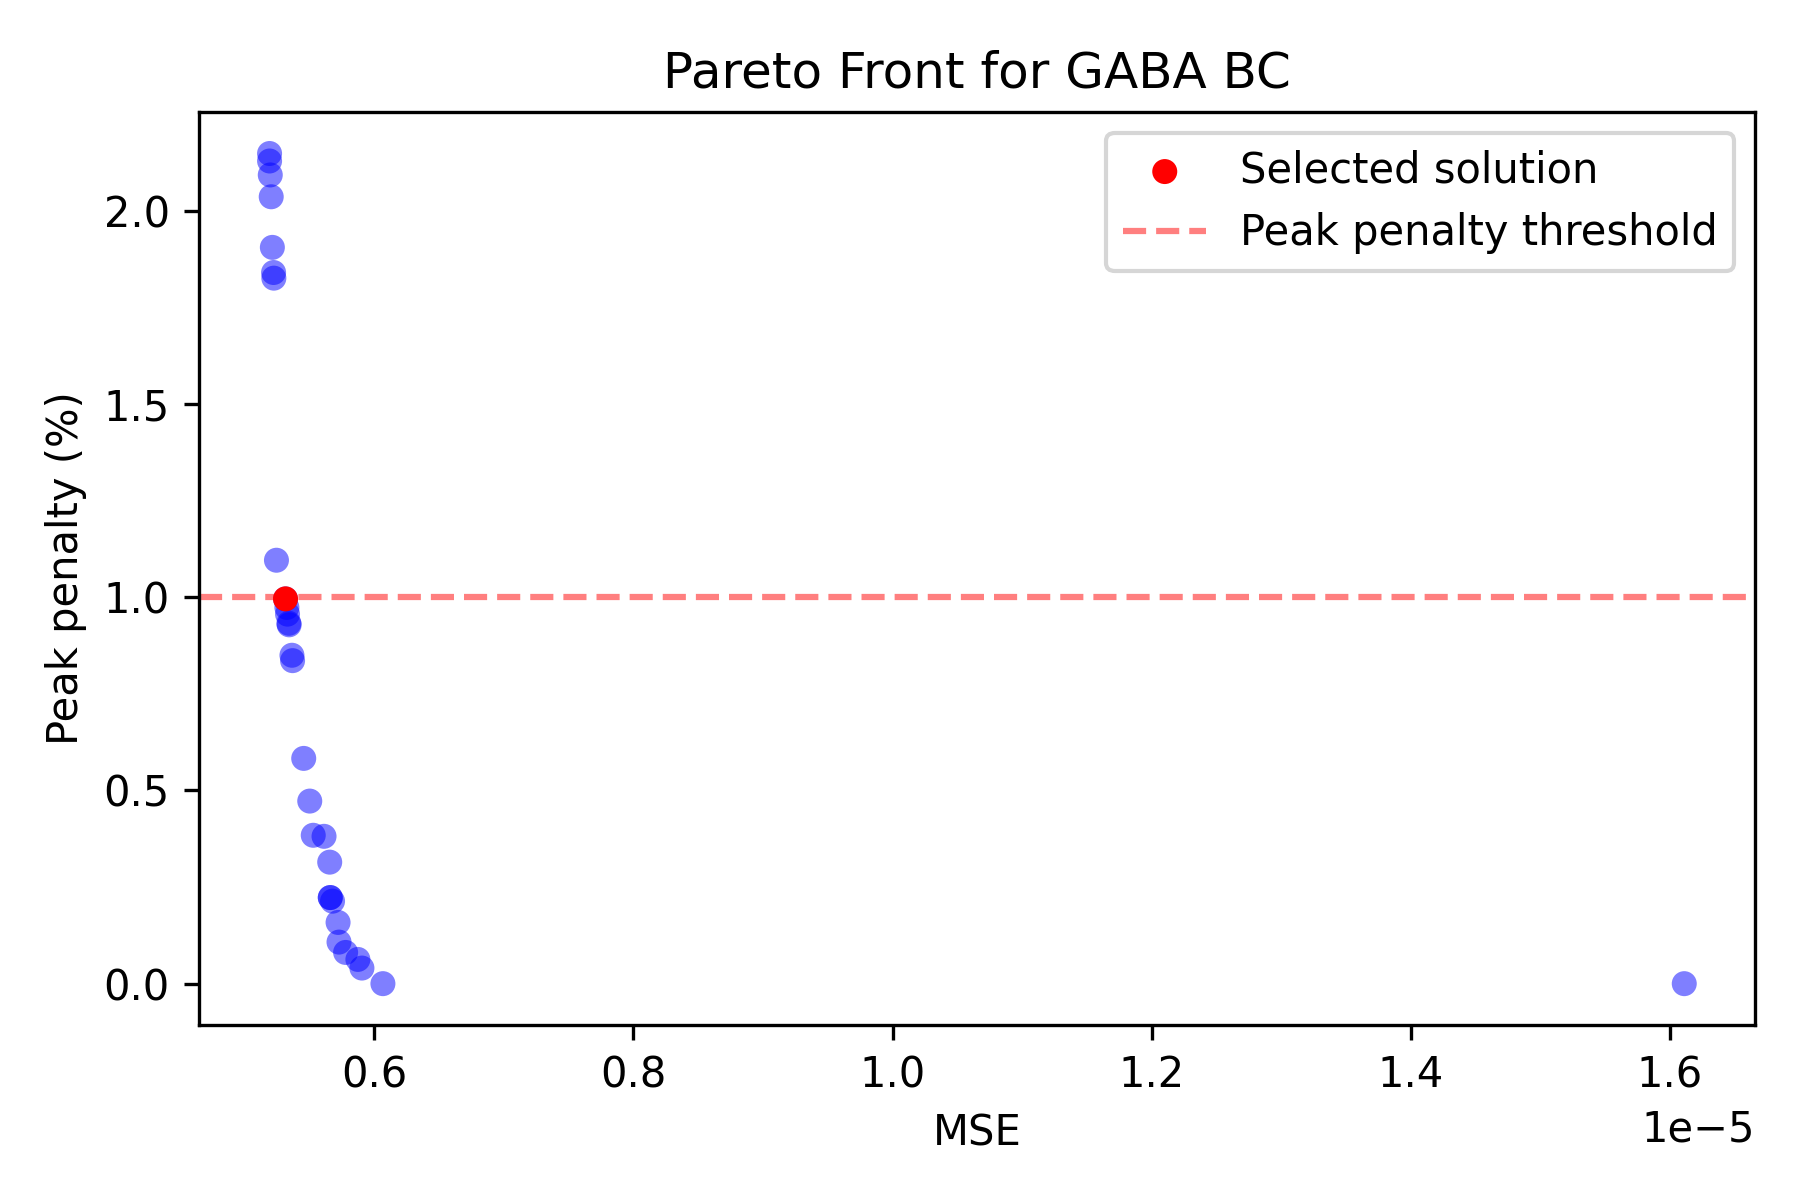
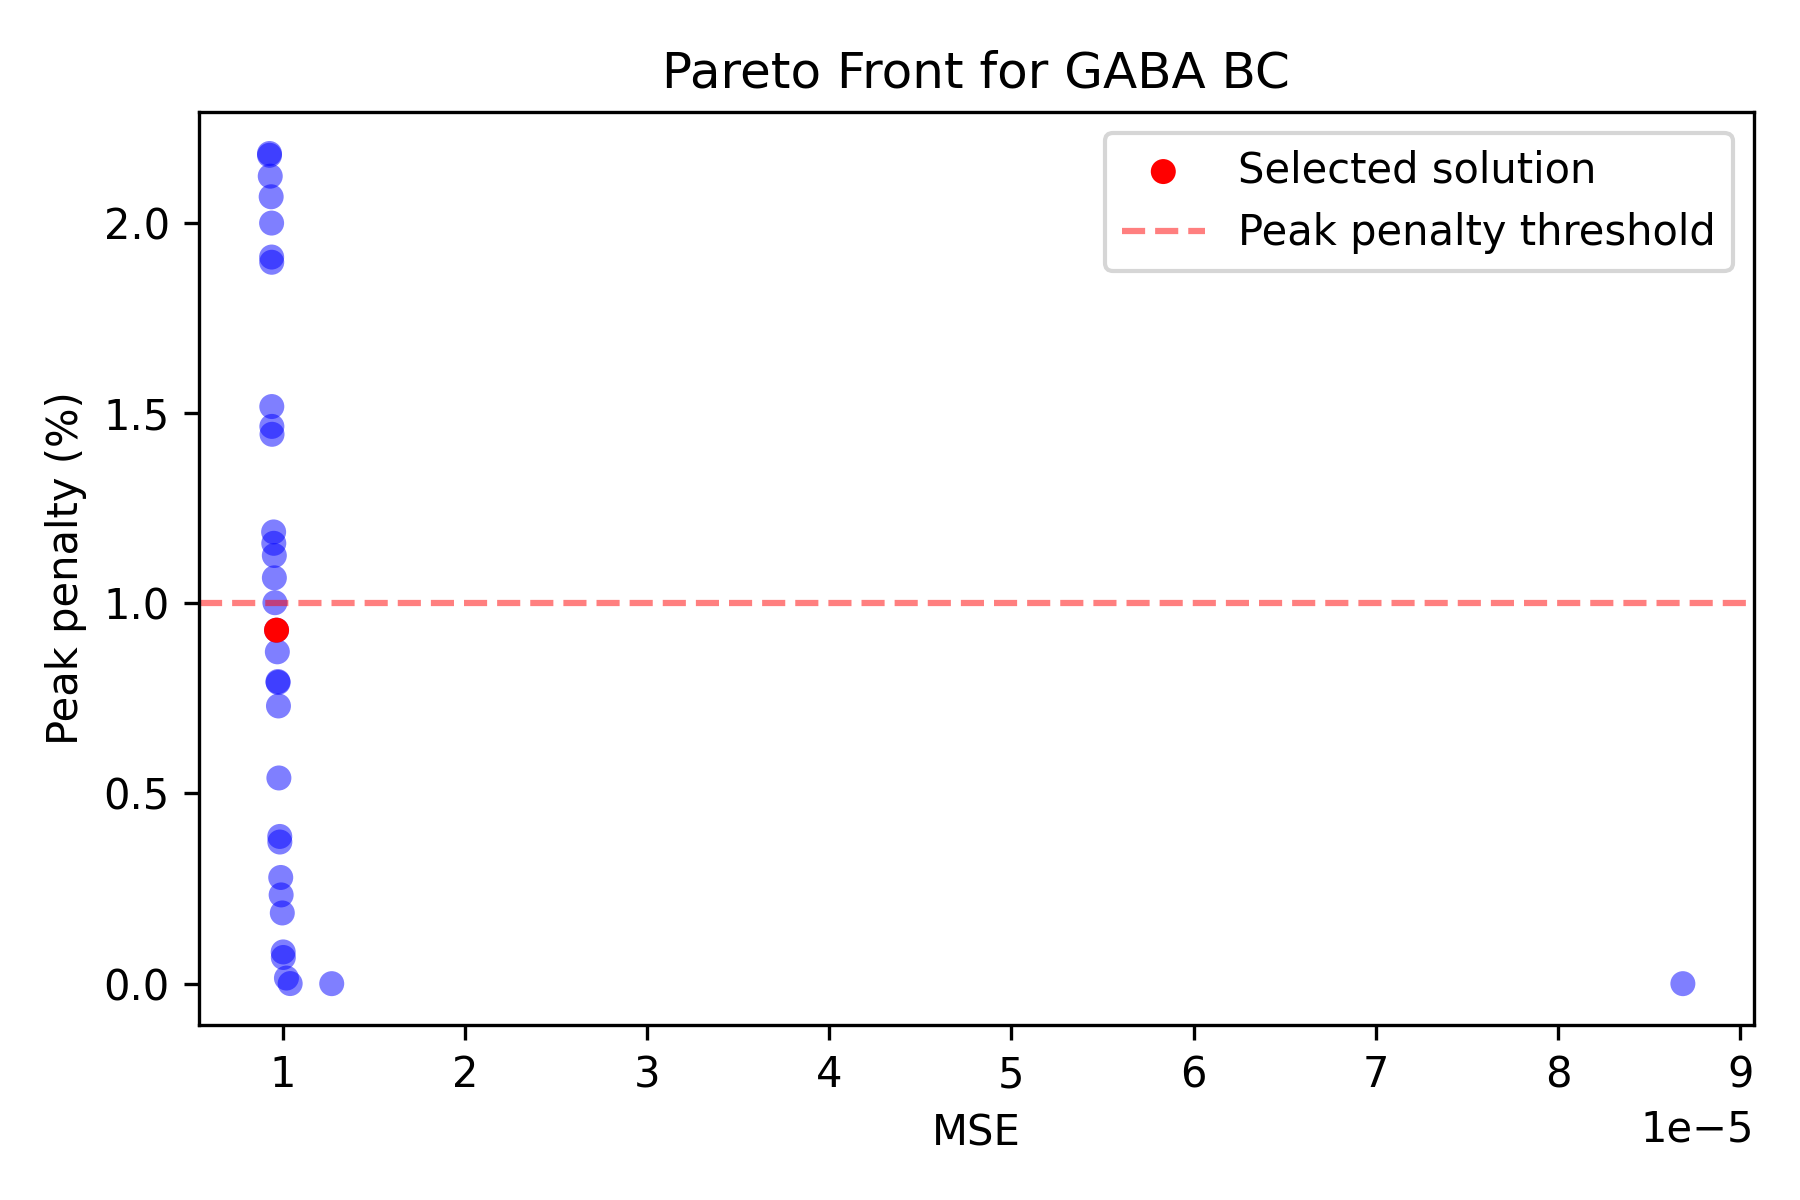
Fix: GABA_E_rev

diff --git a/AMPA_NMDA_GABA_tuning/single_cell_test/neuron_traces.py b/AMPA_NMDA_GABA_tuning/single_cell_test/neuron_traces.py
@@ -2,20 +2,16 @@ import os
 
 import matplotlib.pyplot as plt
 import pandas as pd
+from multi_obj_opt import extract_trace
 
 
-def show_traces(file_path, synapse, conn, save_path):
+def show_traces(file_path, synapse, conn, E_rev, save_path):
     df = pd.read_csv(file_path, delim_whitespace=True)
     df.columns = ["Time", "Current"]
-    if synapse == "AMPA":
-        df["g"] = df["Current"].values * 1000 / (-40.0)
-    elif synapse == "GABA":
-        df["g"] = -df["Current"].values * 1000 / (-40.0)
+    if synapse is 'NMDA':
+        _, df['g'] = extract_trace(file_path,E_rev, mg_block=0.177)
     else:
-        df["g"] = (
-            df["Current"].values * 1000 / ((-40.0 + 3.7) * 0.177)
-        )  # 0.177 is the mg_block value associated to -40 mV,
-        # -3.7 is the reversal potential for NMDA
+        _, df['g'] = extract_trace(file_path,E_rev)
 
     plt.figure()
     plt.title(f"{synapse} current - {conn} (NEURON sim)")
@@ -43,76 +39,105 @@ if __name__ == "__main__":
     save_path = "figs/Neuron_Danilo/"
     conn = "pf_SC"
     synapse = "AMPA"
-    show_traces(file_path, synapse, conn, save_path)
+    E_rev = 0.
+    show_traces(file_path, synapse, conn,E_rev, save_path)
 
     file_path = "../NEURON_traces/Danilo_synapses/SCGABA.txt"
     save_path = "figs/Neuron_Danilo/"
     conn = "SC"
     synapse = "GABA"
-    show_traces(file_path, synapse, conn, save_path)
+    E_rev = -65.
+    show_traces(file_path, synapse, conn,E_rev, save_path)
 
     file_path = "../NEURON_traces/Danilo_synapses/GoCpfAMPA.txt"
     save_path = "figs/Neuron_Danilo/"
     conn = "pf_GoC"
     synapse = "AMPA"
-    show_traces(file_path, synapse, conn, save_path)
+    E_rev = 0.
+    show_traces(file_path, synapse, conn,E_rev, save_path)
 
     file_path = "../NEURON_traces/Danilo_synapses/GoCmfAMPA.txt"
     save_path = "figs/Neuron_Danilo/"
     conn = "mf_GoC"
     synapse = "AMPA"
-    show_traces(file_path, synapse, conn, save_path)
+    E_rev = 0.
+    show_traces(file_path, synapse, conn,E_rev, save_path)
 
     file_path = "../NEURON_traces/Danilo_synapses/GoCGABA.txt"
     save_path = "figs/Neuron_Danilo/"
     conn = "GoC"
     synapse = "GABA"
-    show_traces(file_path, synapse, conn, save_path)
+    E_rev = -65.
+    show_traces(file_path, synapse, conn,E_rev, save_path)
 
     file_path = "../NEURON_traces/Danilo_synapses/GoCaaAMPA.txt"
     save_path = "figs/Neuron_Danilo/"
     conn = "aa_GoC"
     synapse = "AMPA"
-    show_traces(file_path, synapse, conn, save_path)
+    E_rev = 0.
+    show_traces(file_path, synapse, conn,E_rev, save_path)
 
     file_path = "../NEURON_traces/Danilo_synapses/BCpfNMDA.txt"
     save_path = "figs/Neuron_Danilo/"
     conn = "pf_BC"
     synapse = "NMDA"
-    show_traces(file_path, synapse, conn, save_path)
+    E_rev = -3.7
+    show_traces(file_path, synapse, conn,E_rev, save_path)
 
     file_path = "../NEURON_traces/Danilo_synapses/BCpfAMPA.txt"
     save_path = "figs/Neuron_Danilo/"
     conn = "pf_BC"
     synapse = "AMPA"
-    show_traces(file_path, synapse, conn, save_path)
+    E_rev = 0.
+    show_traces(file_path, synapse, conn,E_rev, save_path)
 
     file_path = "../NEURON_traces/Danilo_synapses/BCGABA.txt"
     save_path = "figs/Neuron_Danilo/"
     conn = "BC"
     synapse = "GABA"
-    show_traces(file_path, synapse, conn, save_path)
+    E_rev = -65.
+    show_traces(file_path, synapse, conn,E_rev, save_path)
 
     file_path = "../NEURON_traces/Danilo_synapses/GrCGABA.txt"
     save_path = "figs/Neuron_Danilo/"
     conn = "Grc"
     synapse = "GABA"
-    show_traces(file_path, synapse, conn, save_path)
+    E_rev = -65.
+    show_traces(file_path, synapse, conn,E_rev, save_path)
 
     file_path = "../NEURON_traces/Danilo_synapses/SCpfNMDA.txt"
     save_path = "figs/Neuron_Danilo/"
     conn = "pf_SC"
     synapse = "NMDA"
-    show_traces(file_path, synapse, conn, save_path)
+    E_rev = -3.7
+    show_traces(file_path, synapse, conn,E_rev, save_path)
 
     file_path = "../NEURON_traces/Danilo_synapses/SCpfNMDA.txt"
     save_path = "figs/Neuron_Danilo/"
     conn = "pf_SC"
     synapse = "NMDA"
-    show_traces(file_path, synapse, conn, save_path)
+    E_rev = -3.7
+    show_traces(file_path, synapse, conn,E_rev, save_path)
 
     file_path = "../NEURON_traces/Danilo_synapses/GoCmfNMDA.txt"
     save_path = "figs/Neuron_Danilo/"
     conn = "mf_GoC"
     synapse = "NMDA"
-    show_traces(file_path, synapse, conn, save_path)
+    E_rev = -3.7
+    show_traces(file_path, synapse, conn,E_rev, save_path)
+
+    file_path = "../NEURON_traces/Danilo_synapses/PCaa_pfAMPA.txt"
+    save_path = "figs/Neuron_Danilo/"
+    conn = "aa_pf_PC"
+    synapse = "AMPA"
+    E_rev = 0.
+    show_traces(file_path, synapse, conn,E_rev, save_path)
+
+    file_path = "../NEURON_traces/Danilo_synapses/PCaxGABA.txt"
+    save_path = "figs/Neuron_Danilo/"
+    conn = "SC_BC_PC"
+    synapse = "GABA"
+    E_rev = -70.
+    show_traces(file_path, synapse, conn,E_rev, save_path)
+
+

diff --git a/AMPA_NMDA_GABA_tuning/single_cell_test/opt_GoC_GABA.py b/AMPA_NMDA_GABA_tuning/single_cell_test/opt_GoC_GABA.py
@@ -19,7 +19,7 @@ cell_params = {
     "k_2": 0.023,
     "A1": 259.988,
     "A2": 178.01,
-    "GABA_E_rev": -70.0,
+    "GABA_E_rev": -65.0,
 }
 sim_params = {
     "receptor_type": 3,
@@ -50,7 +50,7 @@ problem = SynapseOptimization(
     tmax=1200,
 )
 problem.xl = np.array([0, 0.0, 0, 10, 0, 0, 0])
-problem.xu = np.array([5, 5.0, 10.0, 100.0, 15, 10, 10])
+problem.xu = np.array([5, 5.0, 10.0, 100.0, 10, 10, 10])
 res = optimization(problem, n_gen=600)
 sol_idx, solution = select_solution(res.F, threshold=0.01)
 opt_params_dict = dict(zip(opt_param_names, res.X[sol_idx]))

diff --git a/AMPA_NMDA_GABA_tuning/single_cell_test/opt_BC_GABA.py b/AMPA_NMDA_GABA_tuning/single_cell_test/opt_BC_GABA.py
@@ -18,7 +18,7 @@ cell_params = {
     "k_2": 1.096,
     "A1": 5.953,
     "A2": 5.863,
-    "GABA_E_rev": -70.0,
+    "GABA_E_rev": -65.0,
 }
 sim_params = {
     "receptor_type": 3,
@@ -71,7 +71,7 @@ plot_conductance(
     E_rev=cell_params["GABA_E_rev"],
     optimized_params=opt_params_dict,
     title="GABA conductance BC",
-    xlim=(190, 600),
+    xlim=(190, 400),
     duration=1201,
     save_path="./figs/opt_GABA_BC.png",
 )

diff --git a/AMPA_NMDA_GABA_tuning/single_cell_test/opt_GoC_Grc_GABA.py b/AMPA_NMDA_GABA_tuning/single_cell_test/opt_GoC_Grc_GABA.py
@@ -19,7 +19,7 @@ cell_params = {
     "k_2": 0.041407868,
     "A1": 0.01,
     "A2": -0.94,
-    "GABA_E_rev": -70.0,
+    "GABA_E_rev": -65.0,
 }
 sim_params = {
     "receptor_type": 3,
@@ -29,6 +29,7 @@ sim_params = {
     "current_name": "I_syn_gaba",
     "spike_time": 200.0 - 36 * 0.025,
 }
+
 trace_file = "../NEURON_traces/Danilo_synapses/GrCGABA.txt"
 opt_param_names = [
     "GABA_g_init",

diff --git a/AMPA_NMDA_GABA_tuning/single_cell_test/opt_SC_GABA.py b/AMPA_NMDA_GABA_tuning/single_cell_test/opt_SC_GABA.py
@@ -18,7 +18,7 @@ cell_params = {
     "k_2": 1.096,
     "A1": 5.953,
     "A2": 5.863,
-    "GABA_E_rev": -70.0,
+    "GABA_E_rev": -65.0,
 }
 sim_params = {
     "receptor_type": 3,
